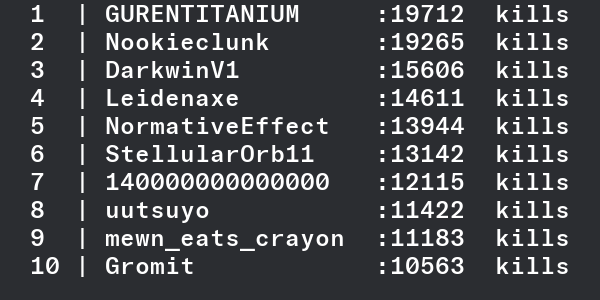
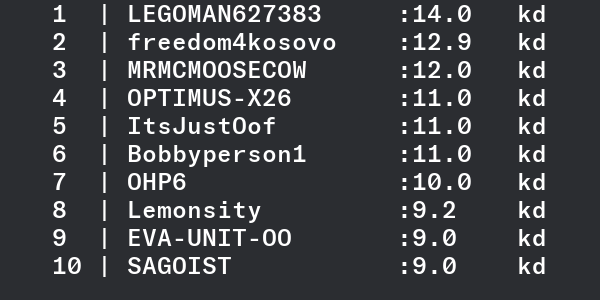
forgot to add chart to /stats

diff --git a/slashcogs/slashstats.py b/slashcogs/slashstats.py
@@ -41,9 +41,13 @@ class SlashStats(commands.Cog):
                 server = await getserver(session, servername)
 
         async with aiohttp.ClientSession() as session:
-            botmessage = await get_allplayer_stats(session, players.values(), weaponid, weaponname, server)
+            botmessage, img_file = await get_allplayer_stats(session, players.values(), weaponid, weaponname, server)
 
-        await interaction.response.send_message(embed=botmessage)
+        if(img_file != ""):
+            await interaction.response.send_message(file=img_file, embed=botmessage)
+        else:
+            await interaction.response.send_message(embed=botmessage)
+
     
     @stats.autocomplete("weapon")
     async def autocomplete_weapon(self, interaction: discord.Interaction, current: str) -> list[app_commands.Choice[str]]:

diff --git a/cogs/stats.py b/cogs/stats.py
@@ -45,7 +45,6 @@ class Stats(commands.Cog):
             return
 
         async with aiohttp.ClientSession() as session:
-            print(players.values())
             botmessage, img_file = await get_allplayer_stats(session, players.values(), weaponid, weaponname, server)
 
         if(img_file != ""):
